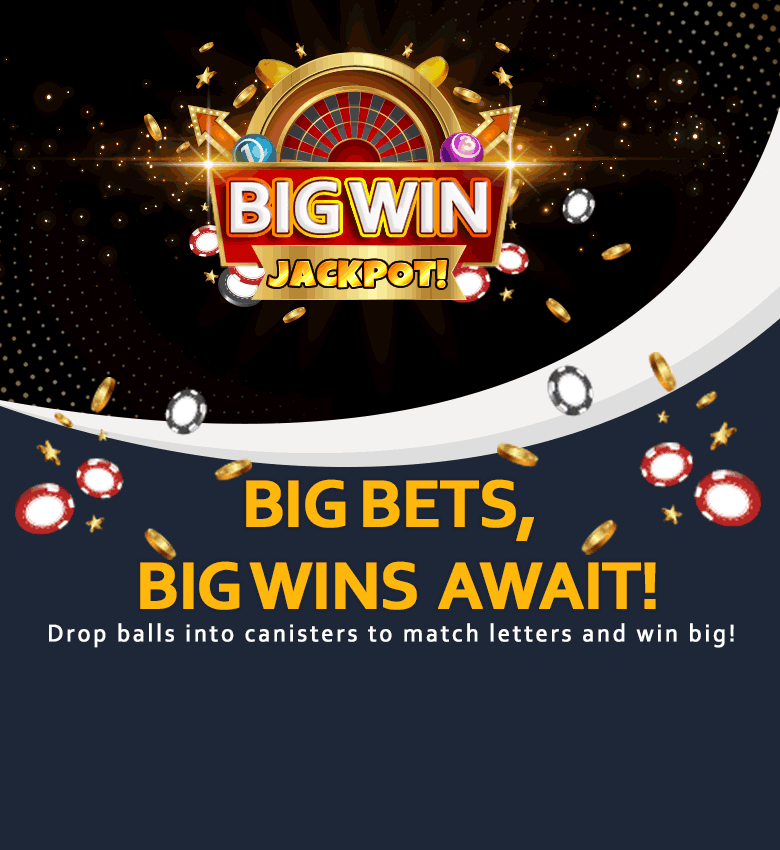
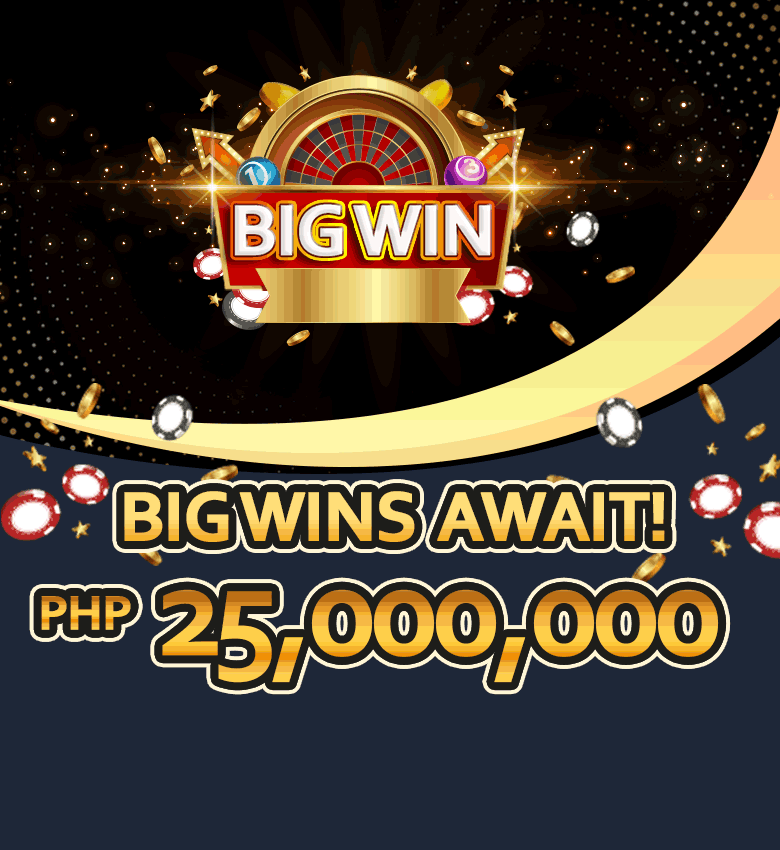
add slot carousel

diff --git a/Controls/Carousel/SlotCarousel/SlotCarouselTile.razor.css b/Controls/Carousel/SlotCarousel/SlotCarouselTile.razor.css
@@ -1,0 +1,86 @@
+.play-btn-container {
+    position: relative;
+    top: 29px;
+}
+/*================ Start: Button PLay Animation ==================*/
+a.play-btn {
+    position: relative;
+    width: 115px;
+}
+
+    a.play-btn > span {
+        margin-left: -10px;
+    }
+
+.arrow {
+    position: absolute;
+    top: 43%;
+    left: 57%;
+    transform: translate(-50%, -50%) rotate(-90deg);
+    cursor: pointer;
+}
+
+    .arrow span {
+        display: block;
+        width: 15px;
+        height: 15px;
+        border-bottom: 5px solid white;
+        border-right: 5px solid white;
+        transform: rotate(45deg);
+        margin: -10px;
+        animation: animate 2s infinite;
+    }
+
+        .arrow span:nth-child(2) {
+            animation-delay: -0.2s;
+        }
+
+        .arrow span:nth-child(3) {
+            animation-delay: -0.4s;
+        }
+
+@keyframes animate {
+    0% {
+        opacity: 0;
+        transform: rotate(45deg) translate(-20px, -20px);
+    }
+
+    50% {
+        opacity: 1;
+    }
+
+    100% {
+        opacity: 0;
+        transform: rotate(45deg) translate(20px, 20px);
+    }
+}
+/*================ End: Button PLay Animation ==================*/
+
+@media only screen and (min-width: 600px) {
+    .carousel-fade img.img-desktop {
+        padding-top: 5rem;
+    }
+
+    .carousel-fade img.img-mobile {
+        display: none;
+    }
+
+    .play-btn-container > .play-btn {
+        width: 30%;
+        height: 50px;
+        font-size: 1.5rem;
+        align-items: center;
+        display: inline-flex;
+        justify-content: center;
+    }
+}
+
+@media screen and (max-width: 599px) {
+    .carousel-fade img.img-mobile {
+        padding-top: 4rem;
+    }
+
+    .carousel-fade img.img-desktop {
+        display: none;
+    }
+}

diff --git a/Controls/Carousel/GPACarousel/GPACarousel.razor.css b/Controls/Carousel/GPACarousel/GPACarousel.razor.css
@@ -36,7 +36,7 @@
         display: none;
     }
     #goPlayAsia-carousel .img-mobile{
-        display: none:
+        display: none;
     }
 }
 

diff --git a/Controls/Carousel/SlotCarousel/SlotCarousel.razor.css b/Controls/Carousel/SlotCarousel/SlotCarousel.razor.css
@@ -1,0 +1,2 @@
+body {
+}
